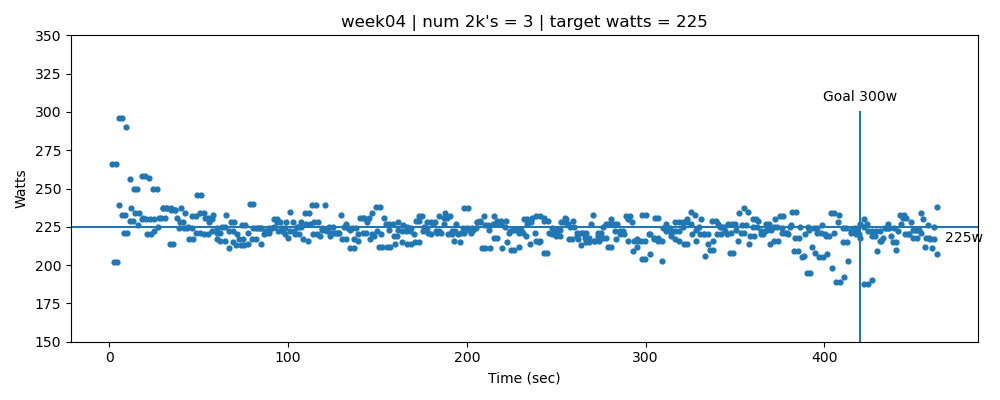
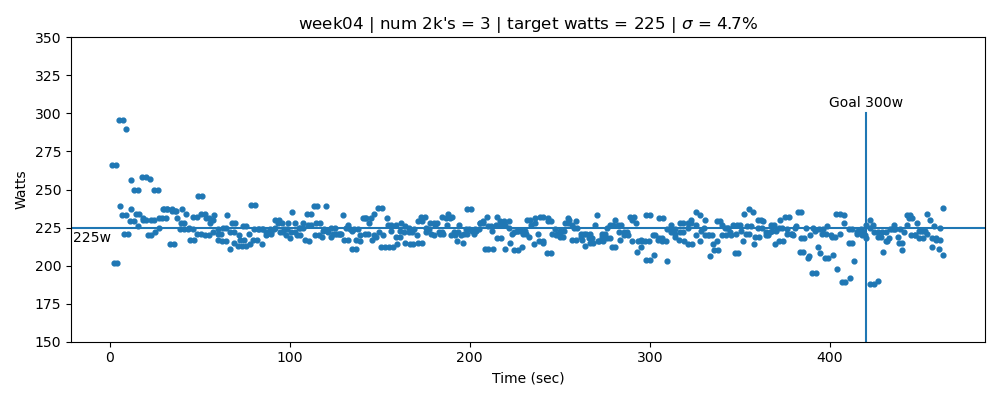
updated plots

diff --git a/plot_week.py b/plot_week.py
@@ -11,6 +11,7 @@ def stats(w):
     std = np.std(w)
     p = 100*std/mean
     print(f' mean = {mean:6.1f} std = {std:6.1f} percent = {p:6.1f} %')
+    return mean, std, p
 
 week = 1
 if len(sys.argv) > 1:
@@ -53,7 +54,7 @@ for df in df_list:
     d = d[m]
     w = w[m]
 
-    stats(w)
+    s = stats(w)
     
     if yy is None:
         yy = w
@@ -69,13 +70,13 @@ plt.ylim((-10,480))
 plt.ylim((150,350))
 plt.xlabel('Time (sec)')
 plt.ylabel('Watts')
-plt.title(f"{path} | num 2k's = {num_2ks} | target watts = {target}")
+plt.title(f"{path} | num 2k's = {num_2ks} | target watts = {target} | $\sigma$ = {s[2]:0.1f}%")
 
 ax.axvline(x=420, ymin=0, ymax=150/200)
-plt.text(420, 310, 'Goal 300w', va='center', horizontalalignment='center')
+plt.text(420, 307, 'Goal 300w', va='center', ha='center')
 
 ax.axhline(target)
-plt.text(478, target-10, f'{target}w', horizontalalignment='center')
+plt.text(-10, target-7, f'{target}w', va='center', ha='center')
 
 plt.tight_layout()
 plt.savefig(f'plot_{path}.png')

diff --git a/README.md b/README.md
@@ -10,7 +10,7 @@ The plan is work my way up from 210 watts with LOTS of volume.
 The secondary training goal is to row at a very consistent pace. The plots should show decreasing
 dispersion over time.
 
-Not sure what the CRASH-B target is yet. (300/265)*313 ~ 340 watts? This would be 1:41/6:44.
+Not sure what the CRASH-B target is yet. (300/265)*313*0.95 ~ 340 watts? This would be 1:41/6:44.
 
 ##### Week 4: 225 Watts (3x2k)
 
